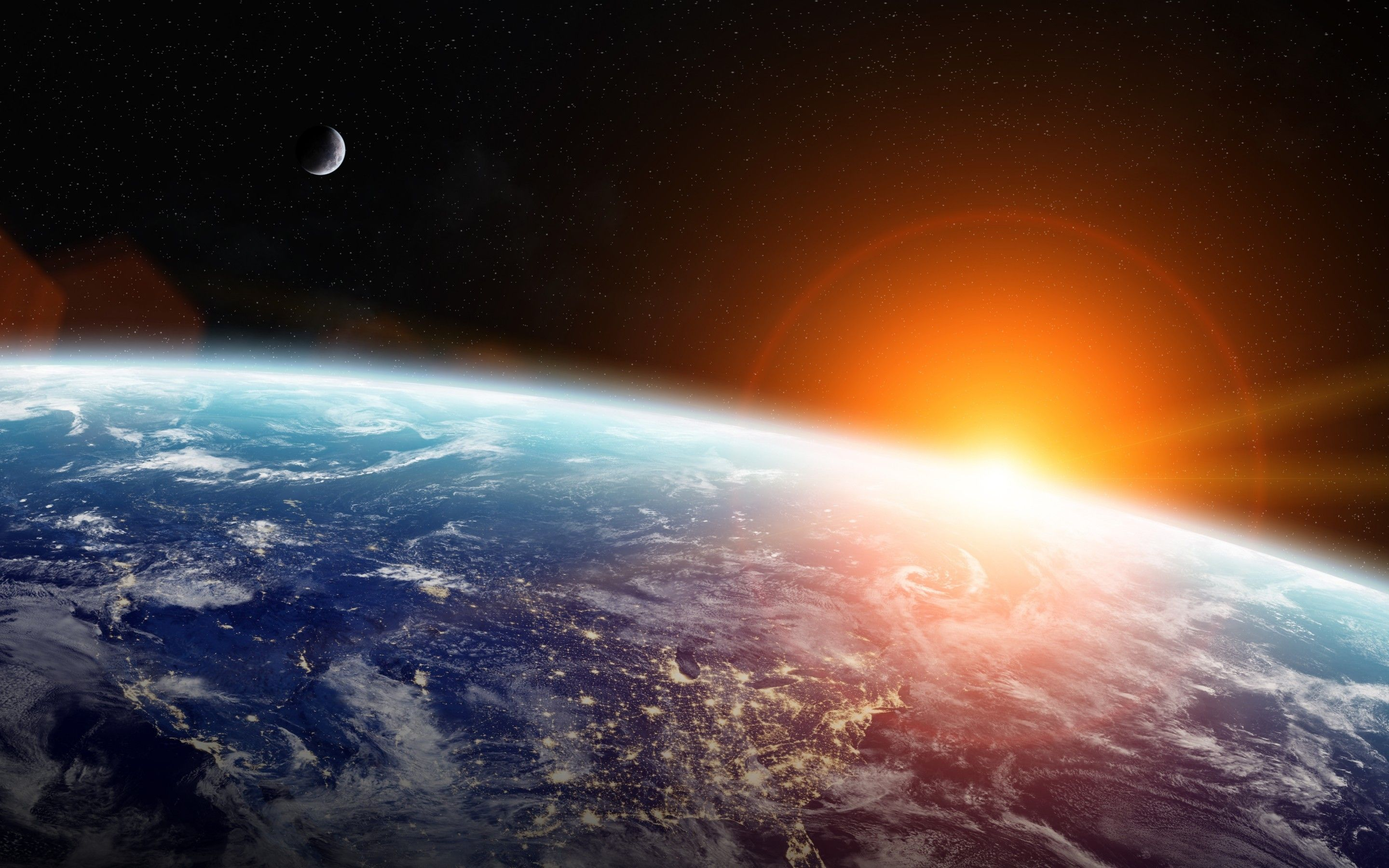
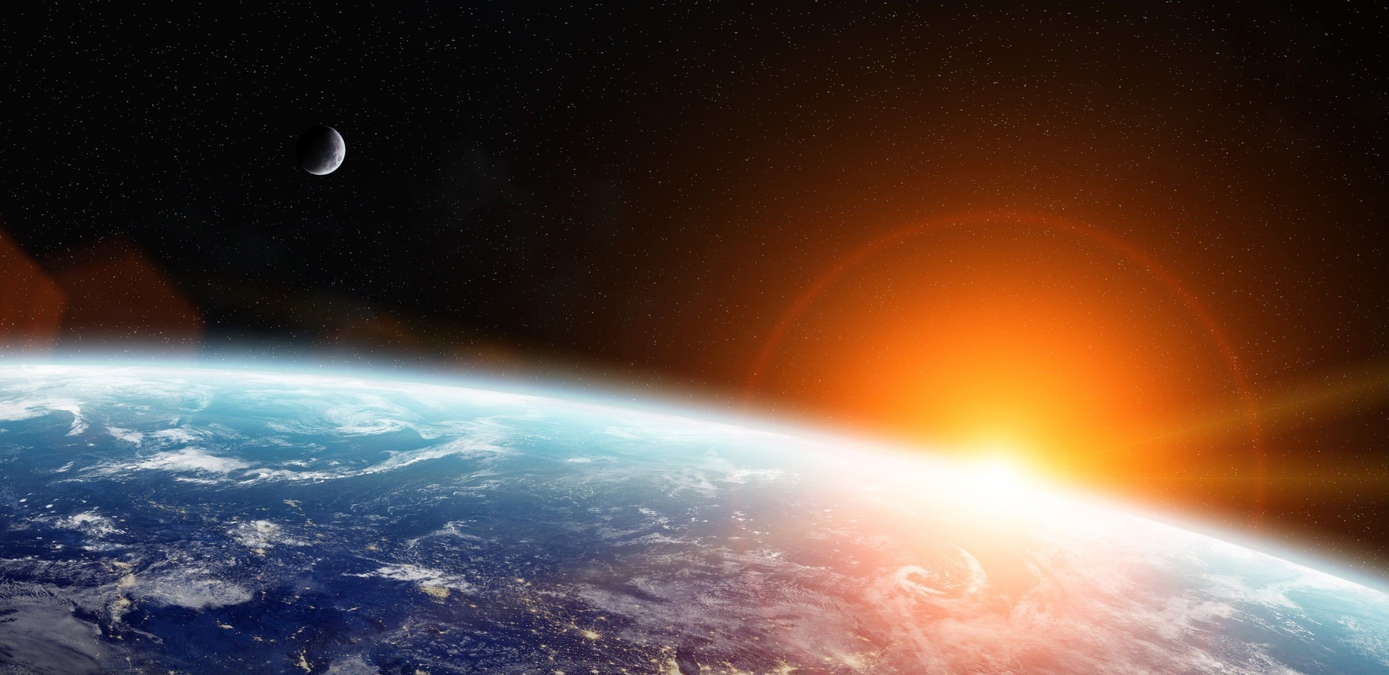
Improved background positioning

diff --git a/resources/js/Components/ProfilesBackground.vue b/resources/js/Components/ProfilesBackground.vue
@@ -82,6 +82,7 @@ export default {
             let bMargin = 50;
             let bDistance = (bRadius + bMargin) * 2;
             let bLocalOffsetAllowance = bMargin * .95;
+            let bLocalYOffsetAllowance = window.innerHeight / 2;
             let maxPop = -.02;
             let minPop = -.001;
 
@@ -126,15 +127,15 @@ export default {
                     (
                         mapOverflowXMargin /* off-screen start */
                         + (index * bDistance) /* global offset */
-                        + (localOffsetNoise.get(index % bPerWidth, index / bPerWidth) * bLocalOffsetAllowance) /* local offset */
+                        // + (localOffsetNoise.get(index % bPerWidth, index / bPerWidth) * bLocalOffsetAllowance) /* local offset */
                     ) + "px";
 
                 // Y Axis
                 bubble.style.top =
                     (
-                        (mapOverflowYMargin) /* off-screen start */
-                        + (parseInt(index / bPerWidth) * bDistance) /* global offset */
-                        + localOffsetNoise.get(index % bPerWidth, index / bPerWidth) * bLocalOffsetAllowance /* local offset */
+                        (mapOverflowYMargin + (mapHeight / 2)) /* off-screen start */
+                        // + (parseInt(index / bPerWidth) * bDistance) /* global offset */
+                        + localOffsetNoise.get(index, Math.PI) * bLocalYOffsetAllowance /* local offset */
                     ) + "px";;
 
             });
@@ -173,7 +174,7 @@ export default {
         <div :id="'bubble' + index" v-for="(developer, index) in profiledDevelopers" class="bubble rounded">
             <img :src="getBubbleImage(index)" class="rounded">
             <div class="volatile">
-                Ciao
+                <!-- Ciao -->
             </div>
         </div>
 
@@ -186,9 +187,9 @@ export default {
     // Background
     background-color: #121212;
     background-image: url('../../img/background_earth.jpg');
-    background-position: center right;
+    background-position: bottom right;
     background-repeat: no-repeat;
-    // background-size: cover;
+    background-size: cover;
 
     // Size
     height: 100vh;
@@ -219,11 +220,11 @@ export default {
         &::after {
             content: '';
             position: absolute;
-            bottom: -1000px;
+            bottom: -250px;
             left: 3rem;
             display: block;
             width: 2px;
-            height: 998px;
+            height: 248px;
             background-color: #cf815b;
         }
     }
